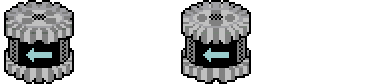
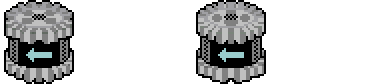
[Build] Smooth roomba. (smoomba?)

Changed region(s): [[0.4688, 0.0, 0.7188, 1.0]]

diff --git a/src/game/gameobjects/character.ts b/src/game/gameobjects/character.ts
@@ -12,17 +12,19 @@ export interface CharacterParams extends GameObjectParams {
     frameCount : number;
     animsCount : number;
     isForward? : boolean;
+    isGlide? : boolean;
 }
 
 export default class Character extends GameObject {
 
-    private speed: number;
+    public get height() { return this._height; }    //Collision height of this character
     protected _height: number;
-    public get height() { return this._height; }
-    protected move: Vect;
-    protected brickHandler!: BrickHandler;
-    private underBricks: Brick[] = [];
-    protected checkCollision: boolean;
+    protected move: Vect;                           //Movement direction of this character
+    protected brickHandler!: BrickHandler;          //Brick handler for brick pressure (bricks under this character)
+    protected checkCollision: boolean;              //If collision needs to be checked
+    private speed: number;                          //Speed of this character
+    private isGlide: boolean;                       //If the character sprite matches the character's subposition
+    private underBricks: Brick[] = [];              //Bricks under pressure, under this character
 
     protected animatGroupsIndex = 0;
     protected animatGroups: Animat[][] = [[]];
@@ -38,7 +40,8 @@ export default class Character extends GameObject {
         this.speed = params.speed ?? 1;                             //Default speed
         this.move = new Vect(params.isForward ?? true ? 1 : -1, 0); //Default move direction
         this._height = params.height ?? 2;                          //Default height for a character
-        this.checkCollision = true;
+        this.isGlide = params.isGlide ?? false;                     //Default glide state
+        this.checkCollision = true;                                 //Force initial collision check
 
         const mainZIndex = this.height * 100;                       //Z-index of main slices in the character sprite
 
@@ -114,6 +117,12 @@ export default class Character extends GameObject {
             this.checkCollision = isCollideAfterShift;
             this.brickHandler.isRecheck = true; //Recheck bricks after every shift
         }
+
+        if(this.isGlide) {
+            this.animatGroupCurr.forEach(a => {
+                a.spos = this.spos;
+            });
+        }
     }
 
     //Move forward and set collection check at each step.
@@ -156,18 +165,18 @@ export default class Character extends GameObject {
     }
 
     //Reverse the direction of this character
-    protected reverse(isOffset : Boolean = true) {
+    protected reverse() {
 
         this.move.x *= -1;                                                          //Reverse direction
         this.animatGroups[0].forEach(x => x.setImageIndex(this.animImageIndex));    //Establish sprites for new direction
         
-        //If we are offsetting this character, move it over in its movement direction
-        if(isOffset) {
-            this.gpos.x += this.move.x;
-        }
-        //Otherwise, force-reset the sprite to match its current position
-        else {
+        //If gliding force-reset the sprite to match its current position
+        if(this.isGlide) {
             this.animatGroupCurr.forEach(a => a.reset(this.gpos));
+        }
+        //Otherwise move the sprite over in its movement direction
+        if(!this.isGlide) {
+            this.gpos.x += this.move.x;
         }
     }
 

diff --git a/src/game/gameobjects/characterrbg.ts b/src/game/gameobjects/characterrbg.ts
@@ -10,7 +10,8 @@ const characterRomGOverride = Object.freeze({
         { name : "char_romg_left", offsetX : 0 },
         { name : "char_romg_right", offsetX : 0}],
     frameCount : 2,
-    animsCount : 1
+    animsCount : 1,
+    isGlide : true
 });
 
 //Collision bitmasks for bot-brick collisions
@@ -42,7 +43,7 @@ export default class CharacterRBG extends Character {
             //Collision bitmask
             const cbm = this.brickHandler.checkCollisionRange(
                 this.gpos.getSub({
-                    x : this.move.x > 0 ? 0 : 1, 
+                    x : this.move.x > 0 ? -1 : 2, 
                     y : this.height
                 }),             //Position
                 this.move.x,    //Direction
@@ -81,7 +82,7 @@ export default class CharacterRBG extends Character {
                 .getAdd(this.spos),
             isSub : true
         },{ 
-            mask : 0,           //Passive
+            mask : 0,   //Passive
             min : this.gpos.getAdd({ x : -1, y : 1 - this.height}),
             max : this.gpos.getAdd({ x :  1, y : 1}) 
         }];
@@ -97,7 +98,7 @@ export default class CharacterRBG extends Character {
             var facingDir = Math.sign(this.move.x);                 //Direction of this's movement  
 
             if(targetDir == facingDir) {
-                this.reverse(false);
+                this.reverse();
             }
         }
     }

diff --git a/build/game/gameobjects/character.js b/build/game/gameobjects/character.js
@@ -12,6 +12,7 @@ export default class Character extends GameObject {
     this.speed = params.speed ?? 1;
     this.move = new Vect(params.isForward ?? true ? 1 : -1, 0);
     this._height = params.height ?? 2;
+    this.isGlide = params.isGlide ?? false;
     this.checkCollision = true;
     const mainZIndex = this.height * 100;
     for (let i = -1; i <= 1; i++) {
@@ -73,6 +74,11 @@ export default class Character extends GameObject {
       this.checkCollision = isCollideAfterShift;
       this.brickHandler.isRecheck = true;
     }
+    if (this.isGlide) {
+      this.animatGroupCurr.forEach((a) => {
+        a.spos = this.spos;
+      });
+    }
   }
   handleNormalMovement(dt) {
     this.spos.x += this.move.x * this.speed * GMULTX * dt;
@@ -90,13 +96,14 @@ export default class Character extends GameObject {
   }
   handleCollision() {
   }
-  reverse(isOffset = true) {
+  reverse() {
     this.move.x *= -1;
     this.animatGroups[0].forEach((x) => x.setImageIndex(this.animImageIndex));
-    if (isOffset) {
-      this.gpos.x += this.move.x;
-    } else {
+    if (this.isGlide) {
       this.animatGroupCurr.forEach((a) => a.reset(this.gpos));
+    }
+    if (!this.isGlide) {
+      this.gpos.x += this.move.x;
     }
   }
   setCurrentGroup(index) {

diff --git a/build/game/gameobjects/characterrbg.js b/build/game/gameobjects/characterrbg.js
@@ -8,7 +8,8 @@ const characterRomGOverride = Object.freeze({
     {name: "char_romg_right", offsetX: 0}
   ],
   frameCount: 2,
-  animsCount: 1
+  animsCount: 1,
+  isGlide: true
 });
 const gcb = Object.freeze({
   flor: bitStack([2]),
@@ -23,7 +24,7 @@ export default class CharacterRBG extends Character {
       this.reverse();
     } else {
       const cbm = this.brickHandler.checkCollisionRange(this.gpos.getSub({
-        x: this.move.x > 0 ? 0 : 1,
+        x: this.move.x > 0 ? -1 : 2,
         y: this.height
       }), this.move.x, 0, 3, 3);
       if (cbm & gcb.face) {
@@ -51,7 +52,7 @@ export default class CharacterRBG extends Character {
       var targetDir = Math.sign(other.gpos.x - this.gpos.x);
       var facingDir = Math.sign(this.move.x);
       if (targetDir == facingDir) {
-        this.reverse(false);
+        this.reverse();
       }
     }
   }
